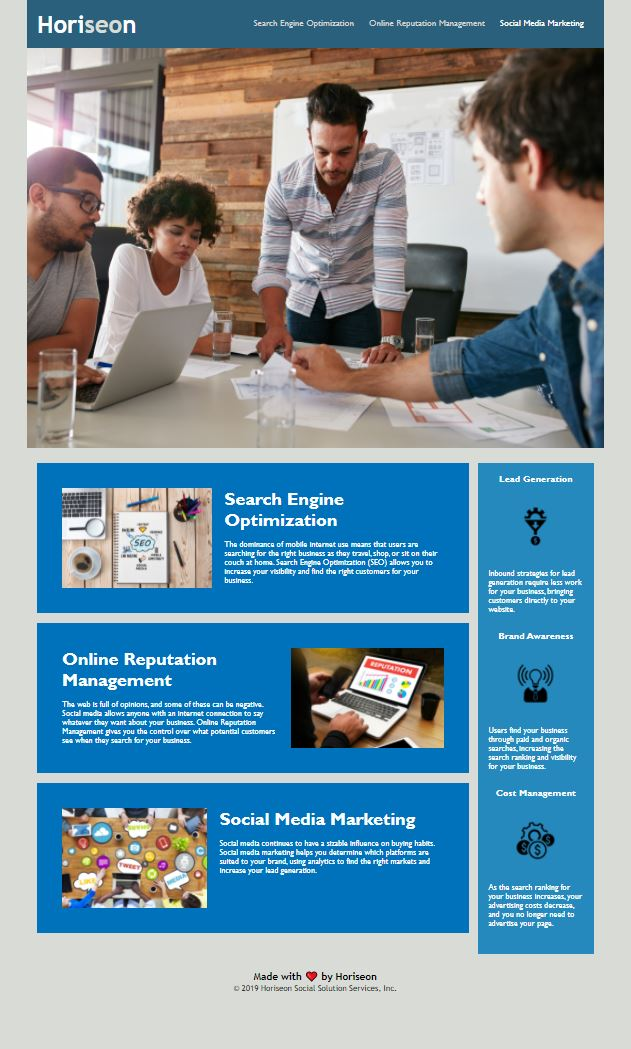
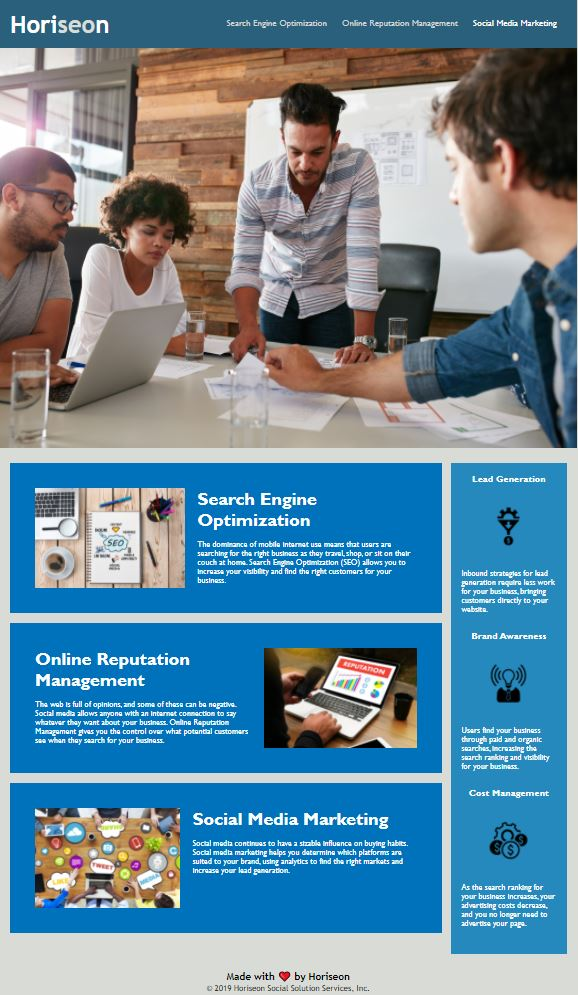
added Readme.md

diff --git a/README.md b/README.md
@@ -12,4 +12,4 @@ You can also visit our GitHub Repository at: [Horiseon | GitHub Repository](http
 
 Finally this is a Screenshot of the Horiseon Website.
 
-[screenshot](./assets/images/Screenshot-Final.jpg)
+![screenshot](./assets/images/Screenshot-Final.jpg)
